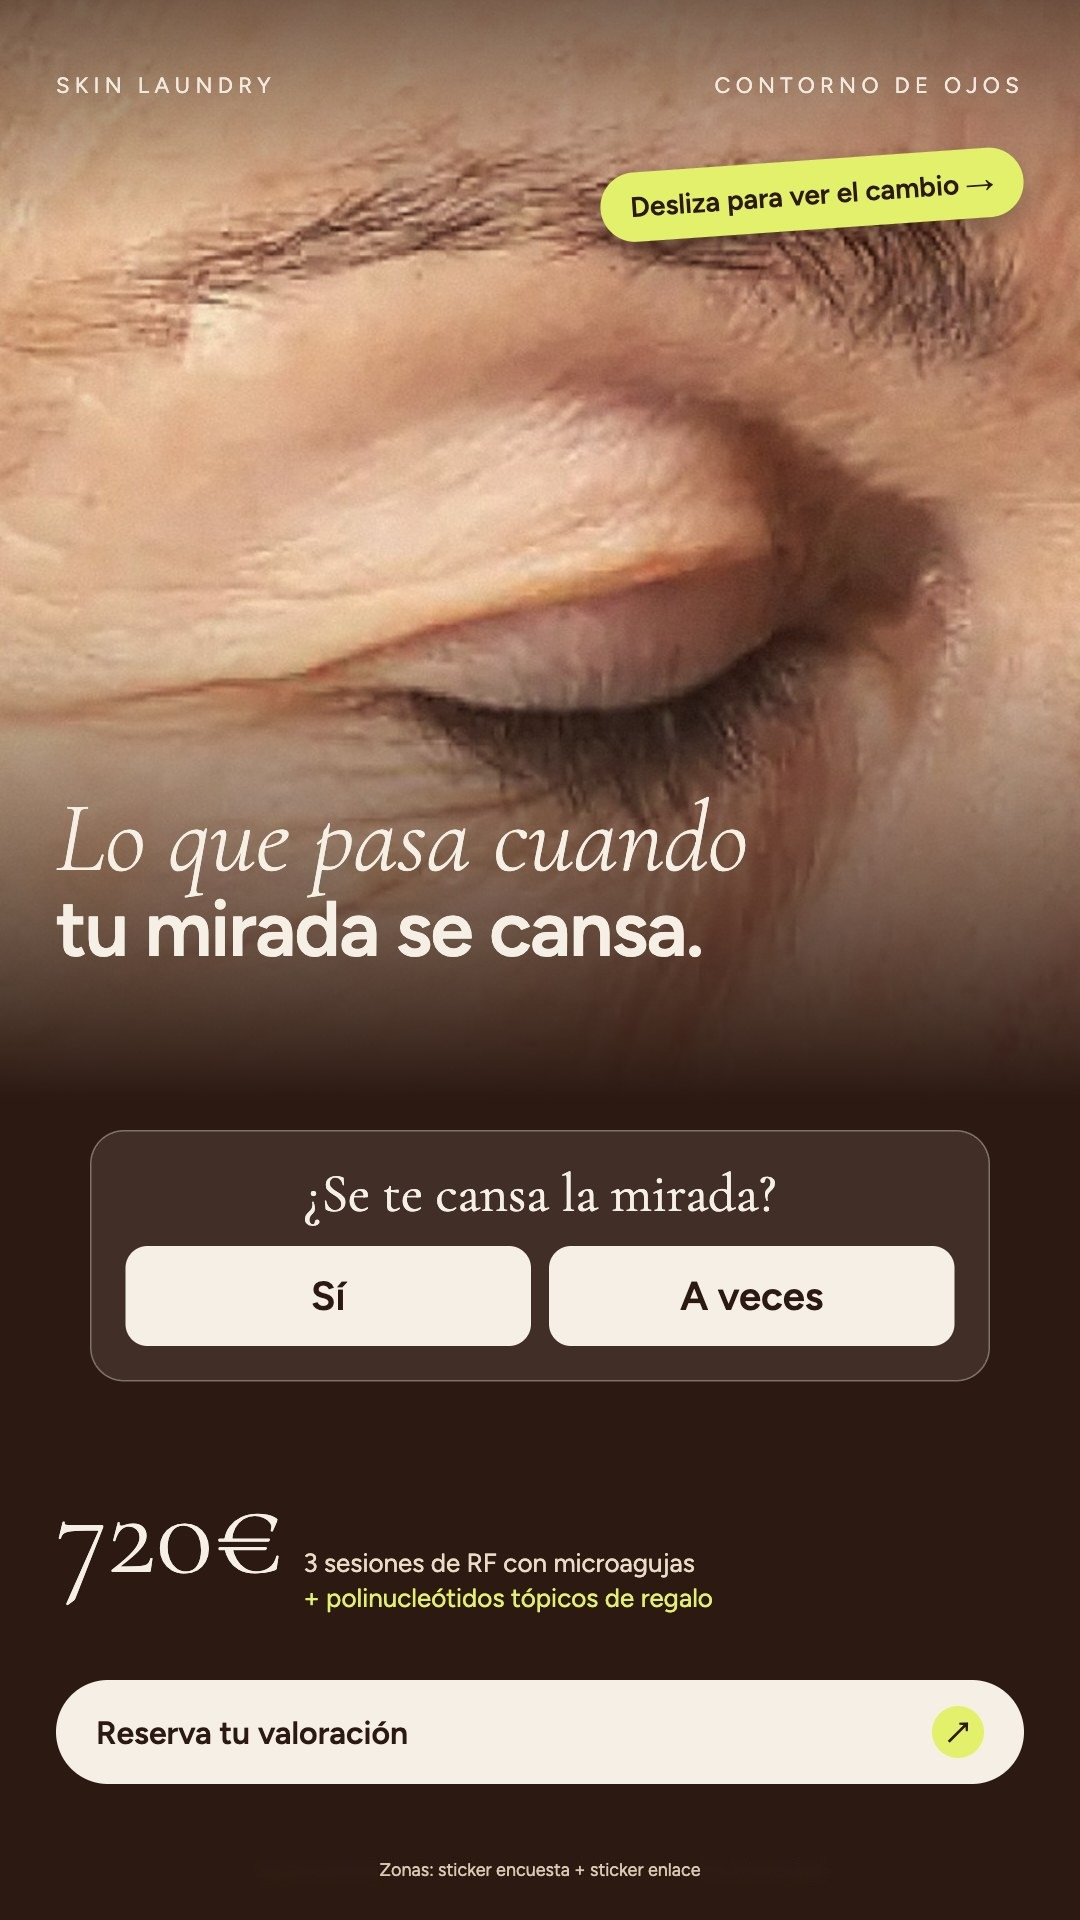
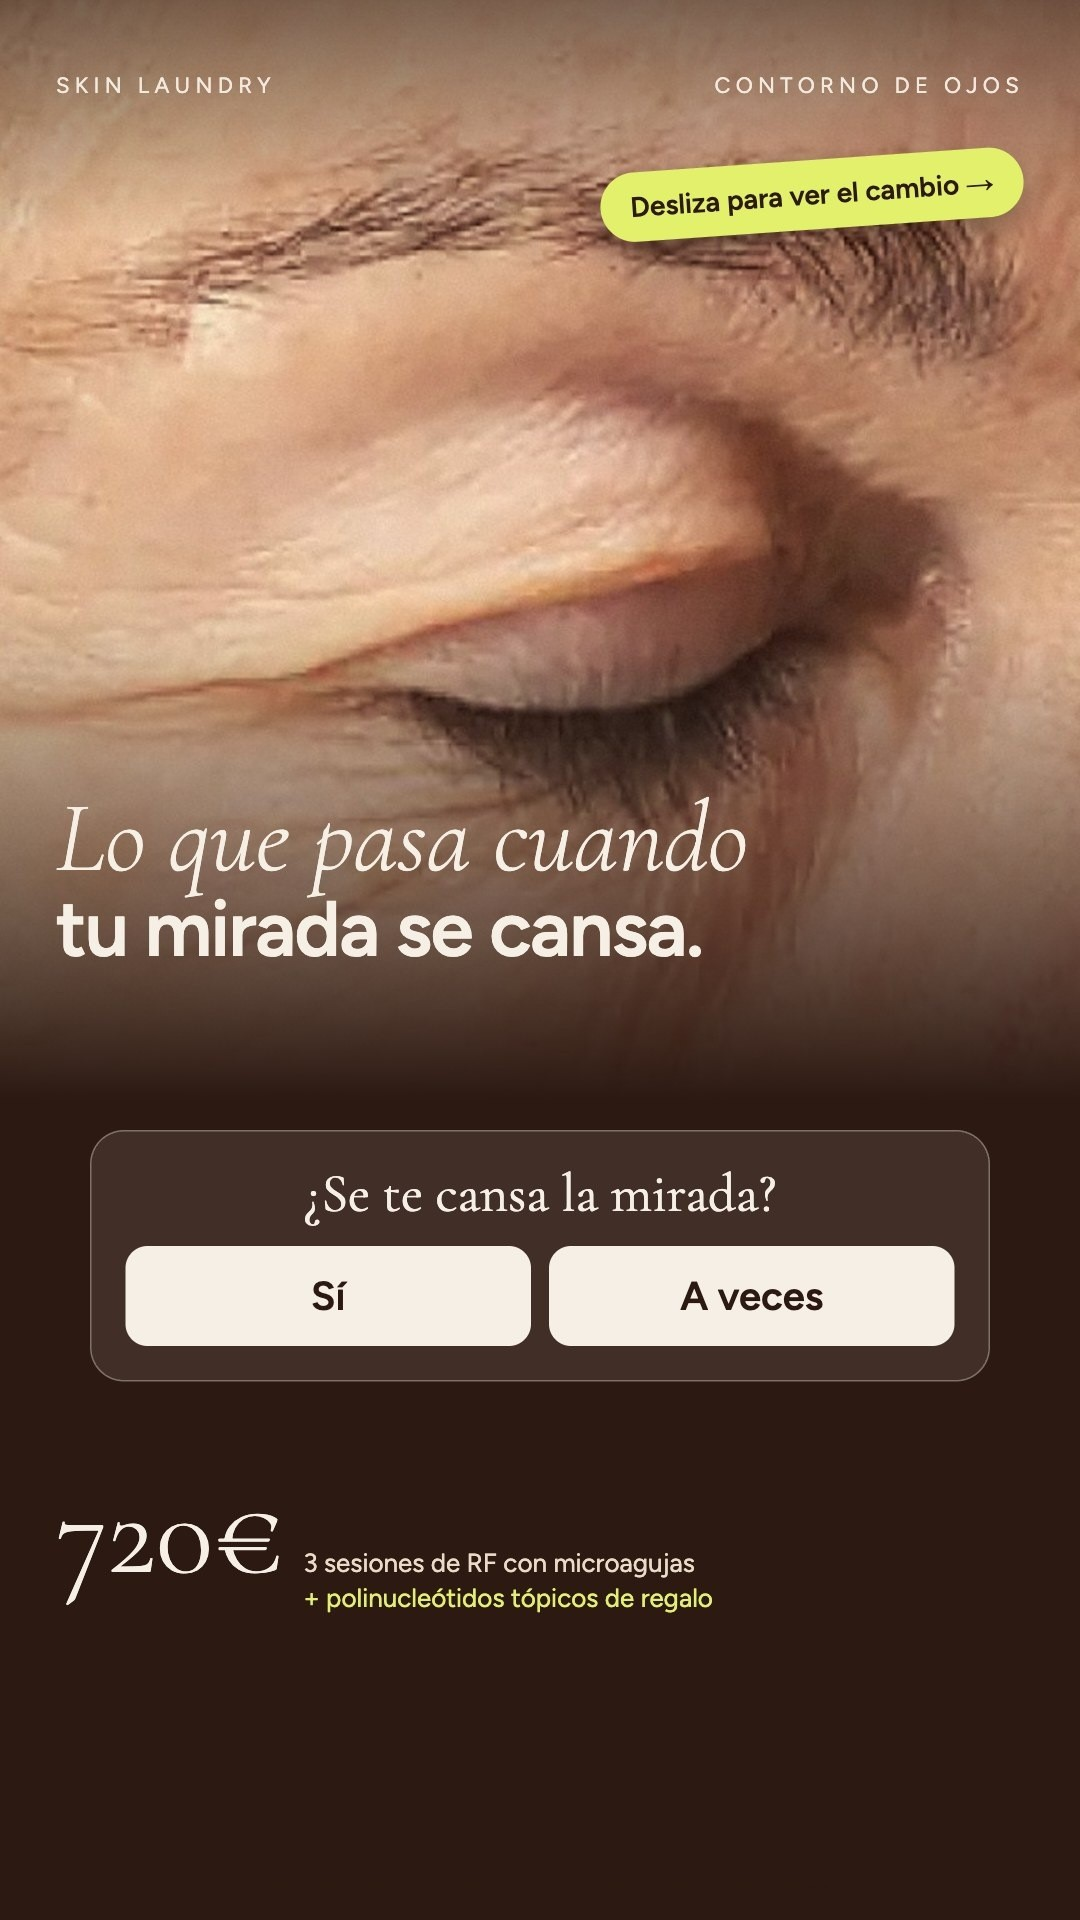
Skin Laundry nov: reposts de reel a pantalla completa y un solo sticker por story
El reel ocupa toda la story y los stickers van encima. Nunca dos elementos
interactivos en la misma story: día 9 solo enlace; días 12 y 22 solo
encuesta (fuera el botón de reserva de la imagen). El visor también corta a
un sticker por story.

Claude-Session: https://claude.ai/code/session_01JZ4qrB4vBJCM1LriYw1bZU

diff --git a/public/pitch/skin-laundry-calendario/noviembre/index.html b/public/pitch/skin-laundry-calendario/noviembre/index.html
@@ -545,18 +545,19 @@ a{color:inherit;text-decoration:none}
 .tpl.repost .rp-bg{position:absolute;inset:-20px;background:center/cover;filter:blur(14px) brightness(.55) saturate(1.1)}
 .tpl.repost .rp-bg.plain{background:linear-gradient(160deg,#88583B,#3C201D)}
 .tpl.repost .tpl-top{z-index:3;color:#fff}
-.tpl.repost .rp-card{position:absolute;left:50%;top:13%;width:60%;transform:translateX(-50%) rotate(-2deg);background:#fff;border-radius:10px;overflow:hidden;box-shadow:0 10px 26px rgba(0,0,0,.45);z-index:2}
-.tpl.repost .rp-hd{display:flex;align-items:center;gap:5px;padding:5px 7px;font-size:7.5px;font-weight:700;color:#111}
+.tpl.repost .rp-card{position:absolute;inset:0;z-index:1}
+.tpl.repost .rp-card::after{content:"";position:absolute;inset:0;background:linear-gradient(180deg,rgba(0,0,0,.35) 0,rgba(0,0,0,0) 18%,rgba(0,0,0,0) 62%,rgba(0,0,0,.45) 100%);pointer-events:none}
+.tpl.repost .rp-hd{position:absolute;left:8%;bottom:20%;z-index:2;display:flex;align-items:center;gap:5px;padding:4px 8px 4px 4px;border-radius:999px;background:rgba(255,255,255,.92);font-size:7.5px;font-weight:700;color:#111}
 .tpl.repost .rp-hd i{width:13px;height:13px;border-radius:50%;overflow:hidden;display:block}
 .tpl.repost .rp-hd i img{width:100%;height:100%;object-fit:cover;display:block}
-.tpl.repost .rp-media{position:relative;aspect-ratio:9/16;background:#000}
+.tpl.repost .rp-media{position:absolute;inset:0;background:#000}
 .tpl.repost .rp-media video{position:absolute;inset:0;width:100%;height:100%;object-fit:cover;cursor:pointer;display:block}
 .tpl.repost .rp-play{position:absolute;left:50%;top:50%;width:30px;height:30px;margin:-15px 0 0 -15px;border-radius:50%;background:rgba(0,0,0,.45);display:grid;place-items:center;pointer-events:none}
 .tpl.repost .rp-play svg{width:13px;height:13px;fill:#fff;stroke:none}
 .tpl.repost .rp-media.playing .rp-play{display:none}
 .tpl.repost .rp-pend{position:absolute;inset:0;background:#3C201D;color:#F6EDE4;display:flex;flex-direction:column;align-items:center;justify-content:center;gap:4px;font-size:8px;text-align:center;padding:10px}
 .tpl.repost .rp-pend span{font-size:7px;letter-spacing:.16em;text-transform:uppercase;color:#CDF765}
-.tpl.repost.two .rp-card{width:50%;top:11%}
+
 .tpl.repost .rp-st{position:absolute;left:8%;right:8%;bottom:7%;display:flex;flex-direction:column;align-items:center;gap:6px;z-index:3}
 .tpl.repost .rp-link{background:#fff;color:#1A1312;font-size:8.5px;font-weight:700;padding:5px 10px;border-radius:7px;box-shadow:0 2px 8px rgba(0,0,0,.25)}
 .tpl.repost .rp-poll{background:#fff;border-radius:10px;padding:7px;width:86%;display:flex;flex-direction:column;gap:4px;box-shadow:0 2px 8px rgba(0,0,0,.25)}
@@ -609,12 +610,12 @@ const FECHAS = {
 };
 
 const PIEZAS = [
-{ d:9, formato:"Reel", repost:[{t:"poll",q:"¿Lo has probado?",o:["Sí","Aún no"]},{t:"link",txt:"Reserva tu valoración"}], media:"/pitch/skin-laundry-calendario/noviembre/img/drive-d09.mp4", poster:"/pitch/skin-laundry-calendario/noviembre/img/drive-d09_poster.jpg", estado:"listo",
+{ d:9, formato:"Reel", repost:[{t:"link",txt:"Reserva tu valoración"}], media:"/pitch/skin-laundry-calendario/noviembre/img/drive-d09.mp4", poster:"/pitch/skin-laundry-calendario/noviembre/img/drive-d09_poster.jpg", estado:"listo",
   nota:"Confirmar con la clínica que el láser grabado es Brightening · planos de láser como foto: sustituir por el vídeo original",  cubo:"Láser", tema:"Brightening", hora:"18:30h",
   pieza:"Brightening Laser Facial: cómo funciona",
   base:"Carta: Láser (Signature 250 €)", cta:"Reserva tu valoración",
   idea:["Gancho: «Lo que pasa en tu piel en 15 minutos»","Paso a paso real de la sesión en cabina","Texto en pantalla: manchas, marcas de acné y tono apagado","Cierre: piel luminosa al salir, sin tiempo de recuperación"],
-  story:["Repost del reel con sticker de enlace","Encuesta: ¿lo has probado? Sí / Aún no"],
+  story:["Repost del reel a pantalla completa con sticker de enlace"],
   copy:`Luz, calor controlado y 15 minutos. Así funciona el Brightening Laser Facial ✨
 
 Trabaja la pigmentación desde dentro para unificar el tono, suavizar las marcas de acné y devolverle la luminosidad a la piel apagada. Sin tiempo de recuperación: sales de cabina y sigues con tu día.
@@ -655,7 +656,7 @@ Desliza para ver cómo funciona 👉
   nota:"Sustituye a «Neuromoduladores» del Excel · precio 720 € a confirmar",
   media:"/pitch/skin-laundry-calendario/noviembre/img/drive-d12_1.jpg", slides:["/pitch/skin-laundry-calendario/noviembre/img/drive-d12_1.jpg","/pitch/skin-laundry-calendario/noviembre/img/drive-d12_2.jpg","/pitch/skin-laundry-calendario/noviembre/img/drive-d12_3.jpg"],
   idea:["1 · Lo que pasa cuando tu mirada se cansa","2 · Antes / después: una mirada más firme y descansada","3 · Contorno de ojos · 720 € · 3 sesiones + polinucleótidos de regalo"],
-  story:["Lo que pasa cuando tu mirada se cansa · sticker «Desliza para ver el cambio»","Encuesta: ¿se te cansa la mirada? Sí / A veces","Promo 720 € con enlace: reserva tu valoración"],
+  story:["Lo que pasa cuando tu mirada se cansa · sticker «Desliza para ver el cambio»","Encuesta: ¿se te cansa la mirada? Sí / A veces"],
   copy:`Lo que pasa cuando tu mirada se cansa 👁
 
 Con los años baja el colágeno, el párpado pierde firmeza y se marcan las líneas finas. El resultado: una mirada que se ve cansada aunque hayas dormido bien.
@@ -723,7 +724,7 @@ Resultados individuales.
   pieza:"Glowtox: Korean Skin Effect",
   base:"Excel 2025: Glowtox · carta 350 €", cta:"Consulta previa con nuestros médicos",
   idea:["Gancho: «El efecto glass skin, sin filtro»","Microinyecciones en cabina, primer plano de textura","Beneficios en pantalla: poro, brillo, luminosidad","Cierre: Glowtox «el original», solo en Skin Laundry"],
-  story:["Repost del reel","Sticker: ¿glass skin? Sí, por favor"],
+  story:["Repost del reel a pantalla completa","Sticker deslizante: ¿glass skin? Sí, por favor"],
   copy:`El efecto glass skin, sin filtro ✨
 
 Glowtox, nuestro Korean Skin Effect «el original», reduce el tamaño del poro, controla el brillo y deja la piel más uniforme y luminosa. Microinyecciones superficiales, sin cambiar tu expresión.
@@ -795,7 +796,7 @@ Nuestros médicos resolverán tus dudas en persona.
   nota:"Promo Mesotox 350 € + tóner de regalo: confirmar vigencia · Blemiderm no aparece en la carta",
   media:"/pitch/skin-laundry-calendario/noviembre/img/drive-d22_1.jpg", slides:["/pitch/skin-laundry-calendario/noviembre/img/drive-d22_1.jpg","/pitch/skin-laundry-calendario/noviembre/img/drive-d22_2.jpg","/pitch/skin-laundry-calendario/noviembre/img/drive-d22_3.jpg","/pitch/skin-laundry-calendario/noviembre/img/drive-d22_4.jpg"],
   idea:["1 · Rojeces o granitos: no son lo mismo","2 · Se parecen, pero no se tratan igual (tabla rosácea vs. acné)","3 · Cómo lo tratamos: Collagen, Calm & Clear, Mesotox / Carbon Peel, Brightening, Blemiderm","4 · Promo del mes: Mesotox 350 € + tóner de regalo"],
-  story:["Nuevo post: Rojeces o granitos · sticker «Desliza»","Encuesta: ¿rojeces o granitos?","Mesotox 350 € con enlace: reserva tu valoración"],
+  story:["Nuevo post: Rojeces o granitos · sticker «Desliza»","Encuesta: ¿rojeces o granitos?"],
   copy:`Rojeces o granitos: no son lo mismo.
 
 Rosácea y acné se parecen, pero no se tratan igual.
@@ -818,7 +819,7 @@ Desliza para descubrir cuál es la tuya 👉
   pieza:"Tu CC te explica",
   base:"Excel 2025: CC", cta:"Descubre el centro", nota:"Confirmar nombre de la CC",
   idea:["La CC a cámara en recepción","Responde: ¿cómo es mi primera visita?","Recorrido rápido: recepción → valoración → cabina","Cierre: te esperamos en Diagonal 610"],
-  story:["Repost del reel","Caja de preguntas para la CC"],
+  story:["Repost del reel a pantalla completa","Caja de preguntas para la CC"],
   copy:`¿Es tu primera vez en Skin Laundry? Te lo explica [nombre], nuestra CC 🤍
 
 Qué pasa cuando llegas, cómo es la valoración y qué tratamiento encaja con tu piel. Todo, antes de tumbarte en la cabina.
@@ -882,7 +883,7 @@ Este Black Friday, empieza por saber qué mancha tienes.
   pieza:"Power Glow Duo: Hydrafacial + láser",
   base:"Excel 2025: Power Glow · carta 380 €", cta:"Reserva antes de que acabe",
   idea:["Gancho: «Dos tratamientos, una sola cita»","Plano 1: Hydrafacial (limpieza e hidratación)","Plano 2: Brightening Laser (luminosidad)","Cierre: el combo para llegar con la piel lista a diciembre"],
-  story:["Repost del reel","Sticker: reserva con enlace"],
+  story:["Repost del reel a pantalla completa","Sticker de enlace: reserva"],
   copy:`Dos tratamientos, una sola cita: Power Glow Duo ✨
 
 Primero, Hydrafacial para limpiar, exfoliar e hidratar en profundidad. Después, Brightening Laser para unificar el tono y potenciar la luminosidad.
@@ -1128,12 +1129,13 @@ function repostStory(p) {
   const inner = vid
     ? `<video src="${esc(p.media)}" ${p.poster ? `poster="${esc(p.poster)}"` : ""} playsinline preload="metadata" onclick="event.stopPropagation();this.paused?this.play():this.pause();this.parentNode.classList.toggle('playing',!this.paused)" onended="this.parentNode.classList.remove('playing')"></video><span class="rp-play">${RI.play}</span>`
     : `<div class="rp-pend"><span>Reel</span>${esc(p.pieza)}</div>`;
-  const st = (p.repost || []).map(s =>
+  /* Un solo elemento interactivo por story: encuesta, enlace o pregunta, nunca dos. */
+  const st = (p.repost || []).slice(0, 1).map(s =>
       s.t === "link" ? `<span class="rp-link">🔗 ${esc(s.txt)}</span>`
     : s.t === "poll" ? `<div class="rp-poll"><b>${esc(s.q)}</b>${s.o.map(o => `<span>${esc(o)}</span>`).join("")}</div>`
     : s.t === "slider" ? `<div class="rp-slider"><b>${esc(s.q)}</b><i><em>${s.e}</em></i><small>${esc(s.txt)}</small></div>`
     : s.t === "question" ? `<div class="rp-q"><b>${esc(s.q)}</b><span>Escribe algo…</span></div>` : "").join("");
-  return `<div class="tpl sm repost${(p.repost || []).length > 1 ? " two" : ""}">
+  return `<div class="tpl sm repost">
     ${bgImg ? `<div class="rp-bg" style="background-image:url('${esc(bgImg)}')"></div>` : `<div class="rp-bg plain"></div>`}
     <div class="tpl-top"><i><img src="${PERFIL.avatar}" alt=""></i>skinlaundry_es</div>
     <div class="rp-card"><div class="rp-hd"><i><img src="${PERFIL.avatar}" alt=""></i>skinlaundry_es</div><div class="rp-media">${inner}</div></div>
